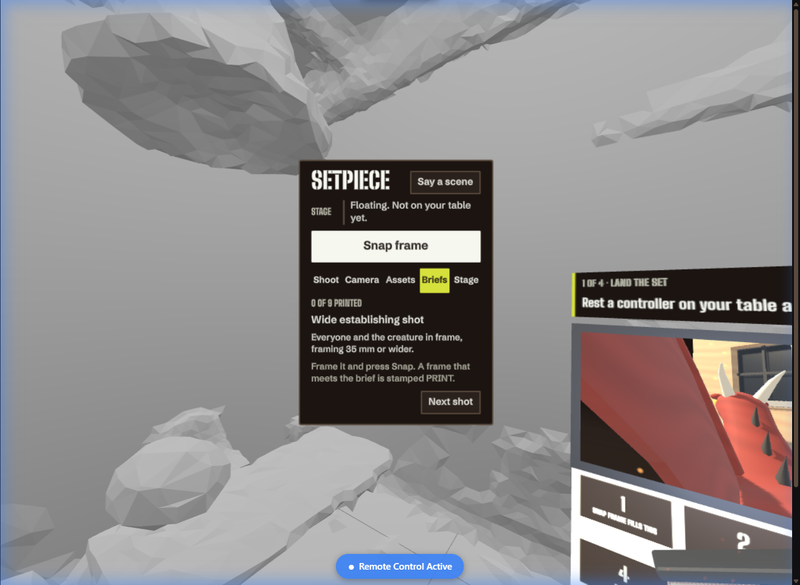
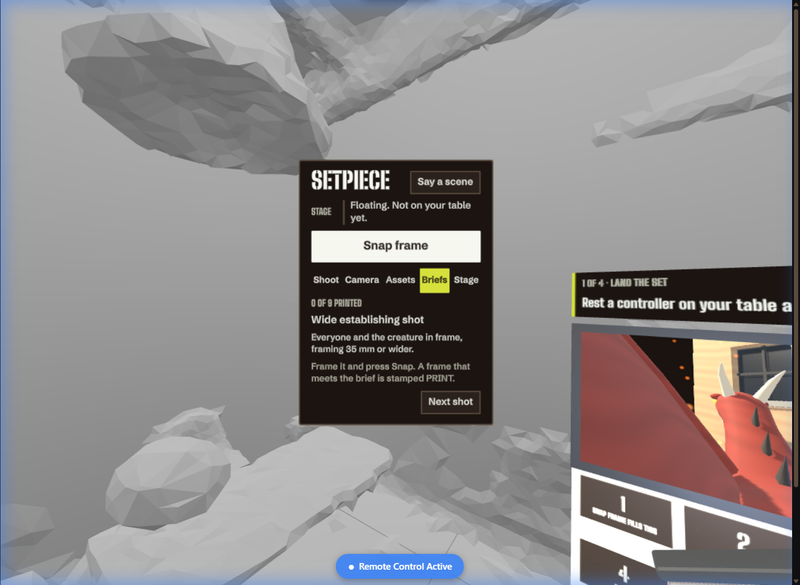
Leave scene pieces bare, mark shelves with a line, larger field labels, printed storyboard frames on the page

diff --git a/src/scenes.ts b/src/scenes.ts
@@ -69,7 +69,7 @@ export const SCENES: Scene[] = [
     camera: [-0.24, 0.18, -45],
     pieces: [
       { label: 'Saucer', x: 0.12, z: -0.05, size: 1 },
-      { label: 'Alien', x: 0.02, z: 0.1, yaw: -30, paint: 4 },
+      { label: 'Alien', x: 0.02, z: 0.1, yaw: -30 },
       { label: 'Fog', x: 0.1, z: -0.02 },
       { label: 'Dust', x: 0.13, z: 0.04 },
       { label: 'A', x: -0.14, z: 0.07, yaw: 110, pose: 2 },
@@ -81,7 +81,7 @@ export const SCENES: Scene[] = [
     lens: 24,
     camera: [-0.26, 0.16, -55],
     pieces: [
-      { label: 'Robot', x: 0.095, z: -0.06, yaw: -110, paint: 5 },
+      { label: 'Robot', x: 0.095, z: -0.06, yaw: -110 },
       { label: 'Tank', x: -0.06, z: 0.07, yaw: 90, size: 1 },
       { label: 'Explosion', x: 0.02, z: -0.08 },
       { label: 'Smoke', x: 0.08, z: -0.14 },
@@ -107,7 +107,7 @@ export const SCENES: Scene[] = [
     lens: 24,
     camera: [-0.24, 0.17, -35],
     pieces: [
-      { label: 'Kraken', x: 0.1, z: -0.05, paint: 2 },
+      { label: 'Kraken', x: 0.1, z: -0.05 },
       { label: 'Boat', x: -0.1, z: 0.04, yaw: 70, size: 1 },
       { label: 'Water', x: 0, z: -0.02 },
       { label: 'Rain', x: 0, z: 0 },
@@ -119,7 +119,7 @@ export const SCENES: Scene[] = [
     lens: 24,
     camera: [-0.25, 0.17, -50],
     pieces: [
-      { label: 'Dinosaur', x: 0.1, z: -0.04, yaw: -100, paint: 4, size: 1 },
+      { label: 'Dinosaur', x: 0.1, z: -0.04, yaw: -100, size: 1 },
       { label: 'Fence', x: 0.02, z: -0.17 },
       { label: 'Truck', x: -0.08, z: 0.11, yaw: 90, size: 1, style: 1 },
       { label: 'Dust', x: 0.06, z: -0.02 },
@@ -137,7 +137,7 @@ export const SCENES: Scene[] = [
       { label: 'Embers', x: 0.02, z: 0.02 },
       { label: 'A', x: -0.08, z: 0.05, yaw: 80 },
       { label: 'Tree', x: 0.16, z: -0.1 },
-      { label: 'Wolf', x: 0.14, z: 0.05, yaw: -90, paint: 7 },
+      { label: 'Wolf', x: 0.14, z: 0.05, yaw: -90 },
       { label: 'Rock', x: -0.17, z: -0.1 },
     ],
   },

diff --git a/src/controls.ts b/src/controls.ts
@@ -454,10 +454,8 @@ export class ControlsSystem extends createSystem({
       if (page >= pages) page = 0;
       const on = g.trayOn.peek();
       for (const name of SHELF_TABS) {
-        panel.getElementById(`shelf-${name}`)?.setProperties({
-          backgroundColor: name === shelf ? OPTIC_YELLOW : undefined,
-          color: name === shelf ? CLOTH : CHALK,
-        });
+        // Tabs fill; a shelf is one level down, so it only takes a line under it.
+        panel.getElementById(`shelf-${name}`)?.setProperties({ borderColor: name === shelf ? OPTIC_YELLOW : CLOTH });
       }
       const searching = shelf === 'Search';
       panel.getElementById('search-box')?.setProperties({ display: searching ? 'flex' : 'none' });

diff --git a/public/page.css b/public/page.css
@@ -389,8 +389,9 @@ main { max-width: 1240px; margin: 0 auto; padding: 0 var(--pad); }
 .board li {
   position: relative;
   aspect-ratio: 16 / 9;
-  border: 1px solid var(--rule);
-  background: var(--block, transparent);
+  border: 1px solid var(--pencil);
+  background: var(--paper);
+  color: var(--pencil);
   border-radius: 2px;
   overflow: hidden;
 }

diff --git a/PHASE0.md b/PHASE0.md
@@ -199,6 +199,8 @@ Later on Nov 5, unattended, while the wearer was away. Their last report was tha
 
 Evening of Nov 5, with the wearer in the headset and a read-only log of their session running (tmp/q-log.py). What they reported, and what the log showed: (1) "I picked a tree, rotated it, tree got super big and moved set away" was a stray pinch on Stand in the shot, three seconds after adding the tree; the log has lifeSize going true at 20:21:37. The button now sits on a Stage tab, takes two presses, and full size shows one big Back to the table button in place of Snap. (2) "I naturally just want to literally grab and move them": pieces can now be taken by reaching for them, fingers on the piece and a pinch, or a hand closed around it, measured against the wearer's own hand on the device (a fist reads 0.7 of palm length, an open hand 1.5 to 1.8; src/hand-reading.ts). Near a piece the ray steps aside. (3) Asked for and built the same evening: a held actor squirms (src/squirm.ts, off switch on the Stage tab); pieces rest on each other; rain or water puts a fire out and a driven vehicle knocks an actor down, as rules read off the blocking so a take replays them (src/reactions.ts); paint, size and fittings for any piece; a library of 51 assets on six shelves, the 28 new models built to a triangle budget; a second camera with live cuts that a take records; each actor's own tape colour on a mark that stays where they stood (src/marks.ts), with the live camera's frame lines on the floor. The colour theme was redone from the device: black cloth instead of grey slate, pressable things as blocks (.design/direction-2.md). Frame rate through the wearer's session held 87.6 to 90 with up to six effects on the slate. Quest Browser has no speech recognition (checked on the device: SpeechRecognition undefined, microphone and WebGPU present), so voice uses a recogniser shipped with the app: Vosk with vosk-model-small-en-us-0.15 (Apache-2.0, 45.5 MB, fetched on the first press), listening for a word list made from the library, with src/scene-words.ts reading the words against the library. In desktop Chromium with a fake microphone it gave final text 1.3 to 1.6 s after speech. It has not been run on the headset, by a real voice, or at frame rate. All of this evening's work is emulator evidence (tmp/val8.py, val10.py, t-cams.mjs, t-all.mjs) except the hand measurements and the frame rates; none of the new interactions has been felt on real hands yet. With every one of the 51 assets on the set at once the emulator draws 660 calls and 153k triangles, which will not hold 60 fps on a 3S; a typical set (three actors, a dragon, a car, a fire) is 230 calls and 50k. Field 7 now reads pieces 52, lenses 6 of 6, exports 3. Field 6 still has no number.
 
+Overnight Nov 5 to 6, unattended. Added: ten composed scenes; a spelled search; actors that walk and face their travel while a take plays, on the floor; spare copies of seven pieces; a ghost pinch; hover on every control; shader grain and a wooden maquette finish on every prop, after a blind critic named toy colours as the most generated thing on screen. Two independent code reviews found 21 real defects, all fixed. Three blind critic rounds scored 6 of 10 against 7 for the first pass, so the skill's target of 3 is not met; the critic was shown a grey test room, and the honest next round is a capture from the headset. Voice works end to end on the live site in desktop Chromium with a synthetic voice through a fake microphone: final text 1.5 s after speech, model fetched once. Nothing from this night has run on the Quest. Open on the device: the microphone prompt inside a session, reach-and-grab on real hands, walk and squirm feel, frame rate with the wider library.
+
 ## Build dates
 
 - Oct 24: headset ordered, rename, card committed. Oct 25: headset delivered.
